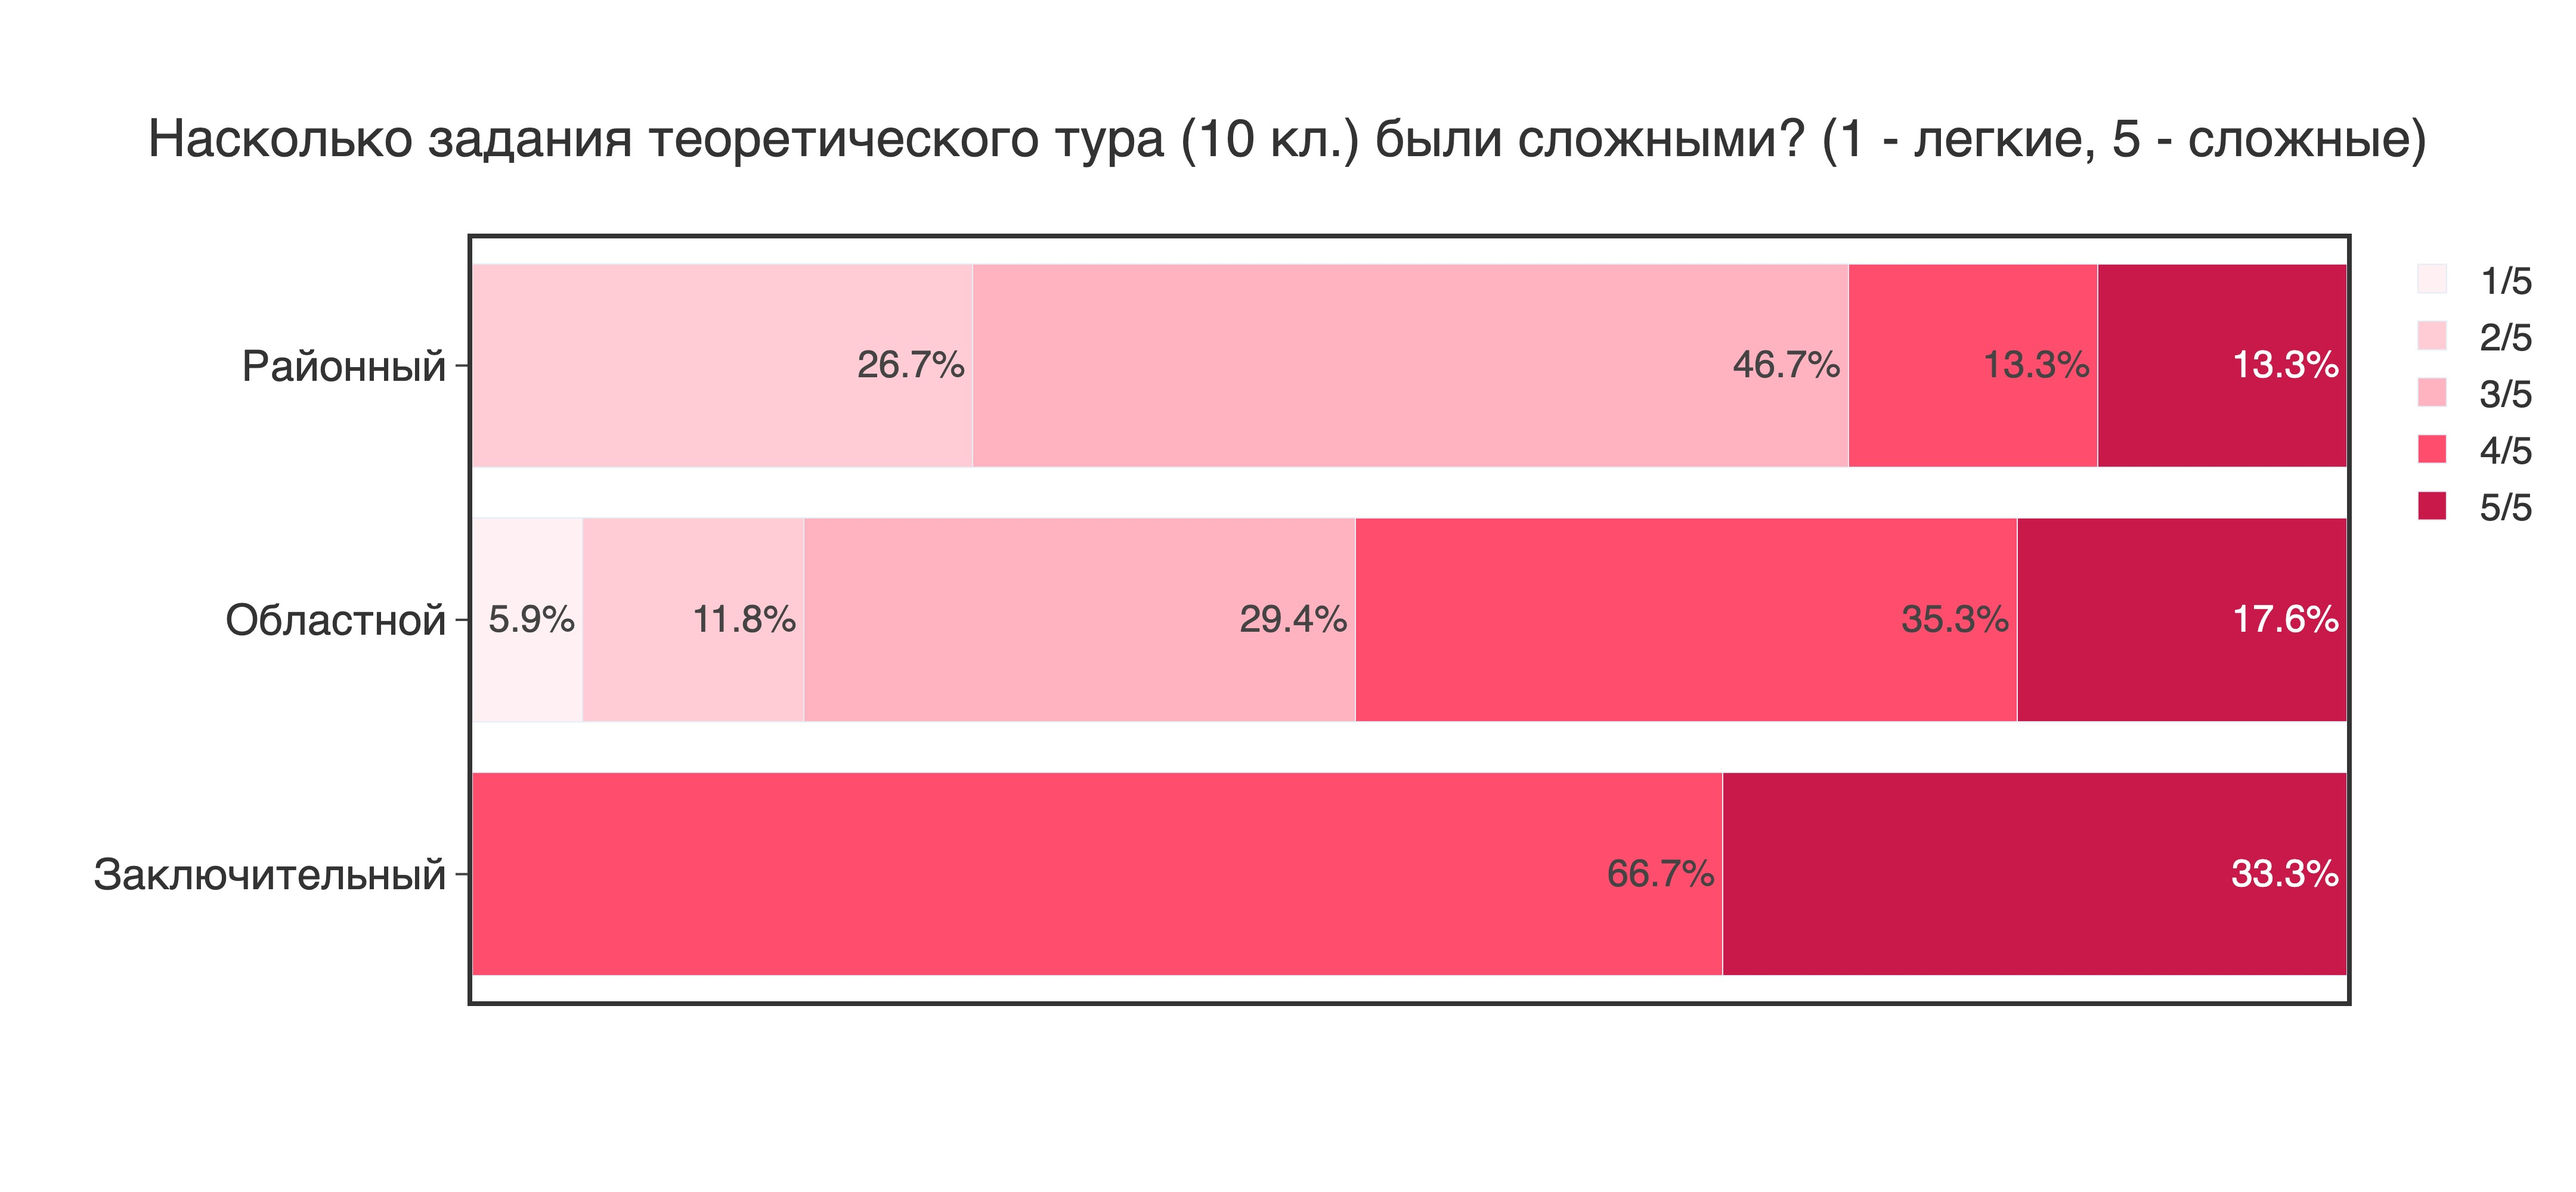
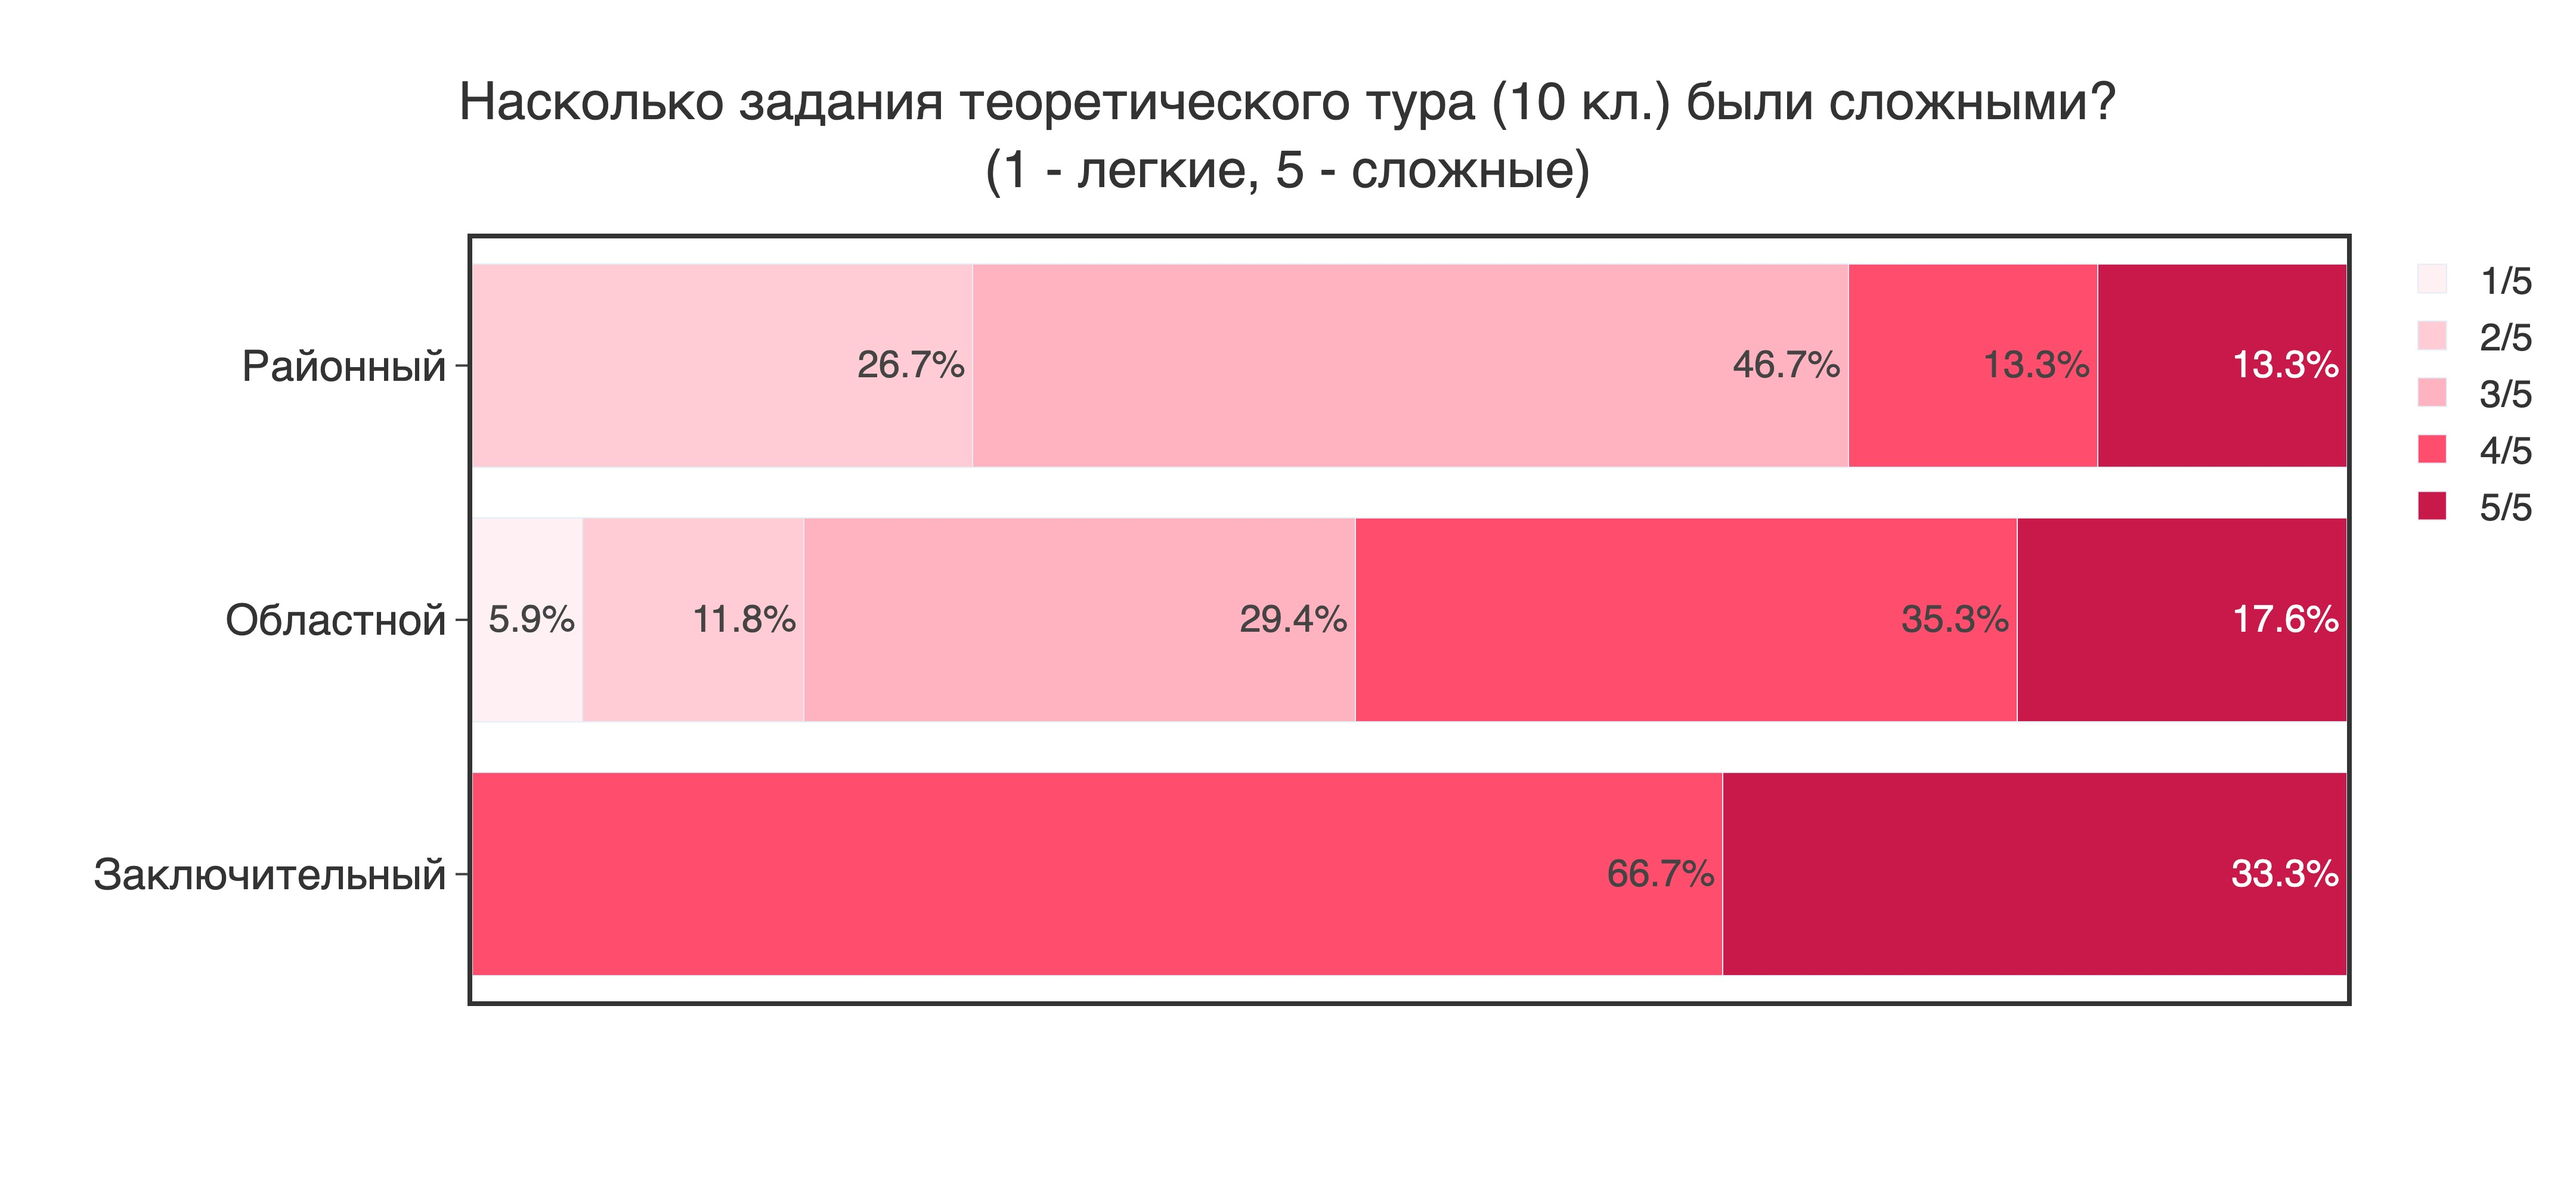
FEAT: group objects by attribute

Changed region(s): [[0.0625, 0.062, 0.9375, 0.155]]

diff --git a/analysis/survey.py b/analysis/survey.py
@@ -247,7 +247,7 @@ class Analyzer:
             yValLabels = [f"{val}%" for val in yVals]
             traces.append(go.Bar(y=self.xValsStages, x=yVals, name=f"{diff+1}/5", orientation='h', marker_color=self.RED5[i],
                                  text=yValLabels, textposition='auto', legendrank=4-i))
-        graph.horizontal_bar_plot(traces, f"demographics/difficulty-grade{grade}", f"Насколько задания теоретического тура ({grade} кл.) были сложными? (1 - легкие, 5 - сложные)")
+        graph.horizontal_bar_plot(traces, f"demographics/difficulty-grade{grade}", f"Насколько задания теоретического тура ({grade} кл.) были сложными?<br>(1 - легкие, 5 - сложные)")
 
     def problem_volume(self, grade):
         graph = Graph()
@@ -266,7 +266,7 @@ class Analyzer:
             yValLabels = [f"{val}%" for val in yVals]
             traces.append(go.Bar(y=self.xValsStages, x=yVals, name=f"{diff+1}/5", orientation='h', marker_color=self.RED5[i],
                                  text=yValLabels, textposition='auto', legendrank=4-i))
-        graph.horizontal_bar_plot(traces, f"demographics/volume-grade{grade}", f"Насколько задания теоретического тура ({grade} кл.) были объемными? (1 - времени было достаточно, 5 - времени не хватало)")
+        graph.horizontal_bar_plot(traces, f"demographics/volume-grade{grade}", f"Насколько задания теоретического тура ({grade} кл.) были объемными?<br>(1 - времени было достаточно, 5 - времени не хватало)")
 
     def problem_interest(self, grade):
         graph = Graph()
@@ -285,7 +285,7 @@ class Analyzer:
             yValLabels = [f"{val}%" for val in yVals]
             traces.append(go.Bar(y=self.xValsStages, x=yVals, name=f"{diff+1}/5", orientation='h', marker_color=self.GREEN5[i],
                                  text=yValLabels, textposition='auto', legendrank=4-i))
-        graph.horizontal_bar_plot(traces, f"demographics/interest-grade{grade}", f"Насколько задания теоретического тура ({grade} кл.) были интересными? (1 - скучные, 5 - интересные)")
+        graph.horizontal_bar_plot(traces, f"demographics/interest-grade{grade}", f"Насколько задания теоретического тура ({grade} кл.) были интересными?<br>(1 - скучные, 5 - интересные)")
          
 if __name__ == "__main__":
     a = Analyzer()
@@ -293,12 +293,11 @@ if __name__ == "__main__":
     a.language_distribution()
     a.gender_distribution()
     a.first_timers()
-    for grade in (9, 10, 11):
-        a.first_timers_by_grade(grade)
     a.preparation_time()
     a.preparation_style()
     a.did_you_know()
     for grade in (9, 10, 11):
+        a.first_timers_by_grade(grade)
         a.problem_difficulty(grade)
         a.problem_volume(grade)
         a.problem_interest(grade)

diff --git a/parsers/find_overlaps.py b/parsers/find_overlaps.py
@@ -1,0 +1,60 @@
+from survey import parse_responses
+
+STAGES = "region oblast respa".split()
+RAW = []
+for stage in STAGES:
+    RAW.append(parse_responses(stage)[0])
+
+# Group by attribute (EXACT MATCH)
+
+def find_exact_matches(attribute):
+    data = RAW
+    attr_to_obj = {}
+    for sublist in data:
+        for obj in sublist:
+            if getattr(obj, attribute) is None: continue
+            attr_to_obj.setdefault(getattr(obj, attribute), []).append(obj)
+
+    # Find all emails with multiple objects
+    duplicates = [attr_to_obj[attr] for attr in attr_to_obj if len(attr_to_obj[attr]) > 1]
+
+    # Print the duplicates
+    for objects in duplicates:
+        print(f"Duplicate objects with {attribute}", getattr(objects[0], attribute))
+        for obj in objects:
+            print("-", obj.name)
+    print(f"Found {len(duplicates)} exact matches")
+
+from fuzzywuzzy import fuzz 
+
+def find_similar_matches(attribute, threshold=90):
+    data = RAW
+    attr_to_obj = {}
+    for sublist in data:
+        for obj in sublist:
+            if getattr(obj, attribute) is None: continue
+            for attr in attr_to_obj.keys():
+                score = fuzz.token_set_ratio(getattr(obj, attribute), attr)
+                if score >= threshold:
+                    attr_to_obj[attr].append(obj)
+                    break
+            else:
+                attr_to_obj[getattr(obj, attribute)] = [obj]
+
+    # Find all attributes with multiple objects
+    duplicates = [attr_to_obj[attr] for attr in attr_to_obj if len(attr_to_obj[attr]) > 1]
+
+    # Print the duplicates
+    for objects in duplicates:
+        print(f"Objects with similar {attribute}:", getattr(objects[0], attribute))
+        for obj in objects:
+            print("-", obj.name)
+    print(f"Found {len(duplicates)} similar matches")
+
+
+if __name__ == "__main__":
+    # find_exact_matches("email") # finds 11
+    # find_exact_matches("name")  # finds 16
+
+    find_similar_matches("name") # finds 19 (also found one duplicate response which I fixed!)
+    # find_similar_matches generated by ChatGPT
